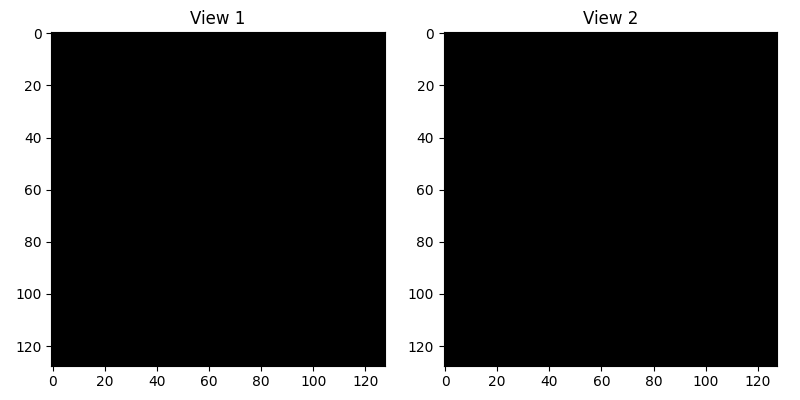
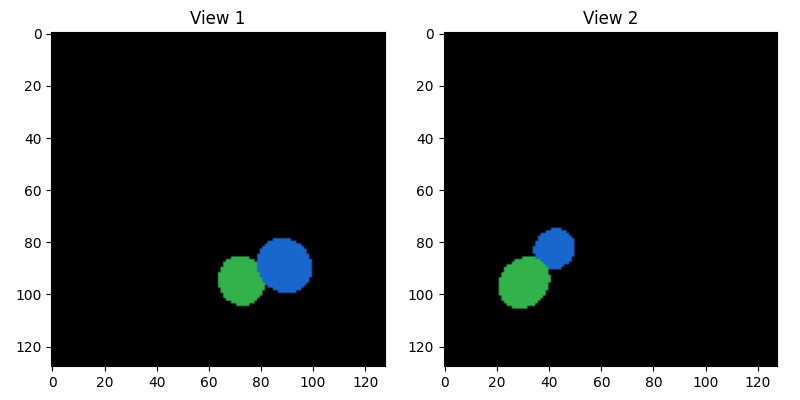
complete pset 4.2

diff --git a/pset4/problem2/problem_2_sphere_tracing.py b/pset4/problem2/problem_2_sphere_tracing.py
@@ -83,12 +83,15 @@ def camera_param_to_rays(c2w, intrinsics, H=128, W=128):
     # 2. Convert pixel coordinates to camera coordinates using intrinsics
     # 3. Transform camera coordinates to world coordinates using c2w
 
-    fx, fy, cx, cy = intrinsics
+    device = c2w.device
+
+    fx, fy, cx, cy = intrinsics.to(device)
 
     x_pixel, y_pixel = torch.meshgrid(torch.arange(W), torch.arange(H), indexing="xy")
+    x_pixel, y_pixel = x_pixel.to(device), y_pixel.to(device)
     x_cam = (x_pixel - cx + 0.5) / fx # shift coords in camera plane by 0.5
     y_cam = (y_pixel - cy + 0.5) / fy
-    z_cam = torch.ones_like(x_cam)
+    z_cam = torch.ones_like(x_cam, device=device)
 
     ray_directions = torch.stack((x_cam, y_cam, z_cam), dim=-1) # shape: (H, W, 3)
     ray_directions = ray_directions @ c2w[:3, :3].T
@@ -148,39 +151,29 @@ def sphere_tracing(
     # 6. Reconstruct image from hit points
 
     H, W, _ = ray_origins.shape
-    image = torch.zeros((H, W, 3))
-    t = torch.full((H, W), t_near)
-    active_mask = torch.ones((H, W), dtype=torch.int64)
-
-    print(f"{ray_origins=}")
-    print(f"{ray_directions=}")
+    image = torch.zeros((H, W, 3), device=device)
+    t = torch.full((H, W), t_near, device=device)
+    active_mask = torch.ones((H, W), dtype=torch.bool, device=device)
 
     for _ in range(max_iter):
-        print(_)
         if not active_mask.any():
             break
 
         # sample points along rays
         curr_points = ray_origins + t[..., None] * ray_directions
-        print(f"{curr_points=}")
         # query sdf for colors
         sdf, colors = model(curr_points.flatten(0,1))
-        sdf, colors = sdf.reshape((H, W, -1)).squeeze(), colors.reshape((H, W, -1))
-        print(f"{sdf=}")
+        sdf, colors = sdf.view(H, W), colors.view(H, W, 3)
         # update active mask for hit points
         hit_mask = (sdf < epsilon).squeeze()
-        print(f"{active_mask.sum()=}")
         active_mask &= ~hit_mask
         # update active mask for points that are > t_far
-        far_mask = (t > t_far).squeeze()
+        far_mask = (t >= t_far).squeeze()
         active_mask &= ~far_mask
         # update image with hit points' colors
         image[hit_mask] = colors[hit_mask]
-        print(f"{hit_mask.sum()=}")
-        print(f"{colors[hit_mask]=}")
         # update t with new distances
         t[active_mask] += sdf[active_mask]
-        break # debug
 
     return image
 
